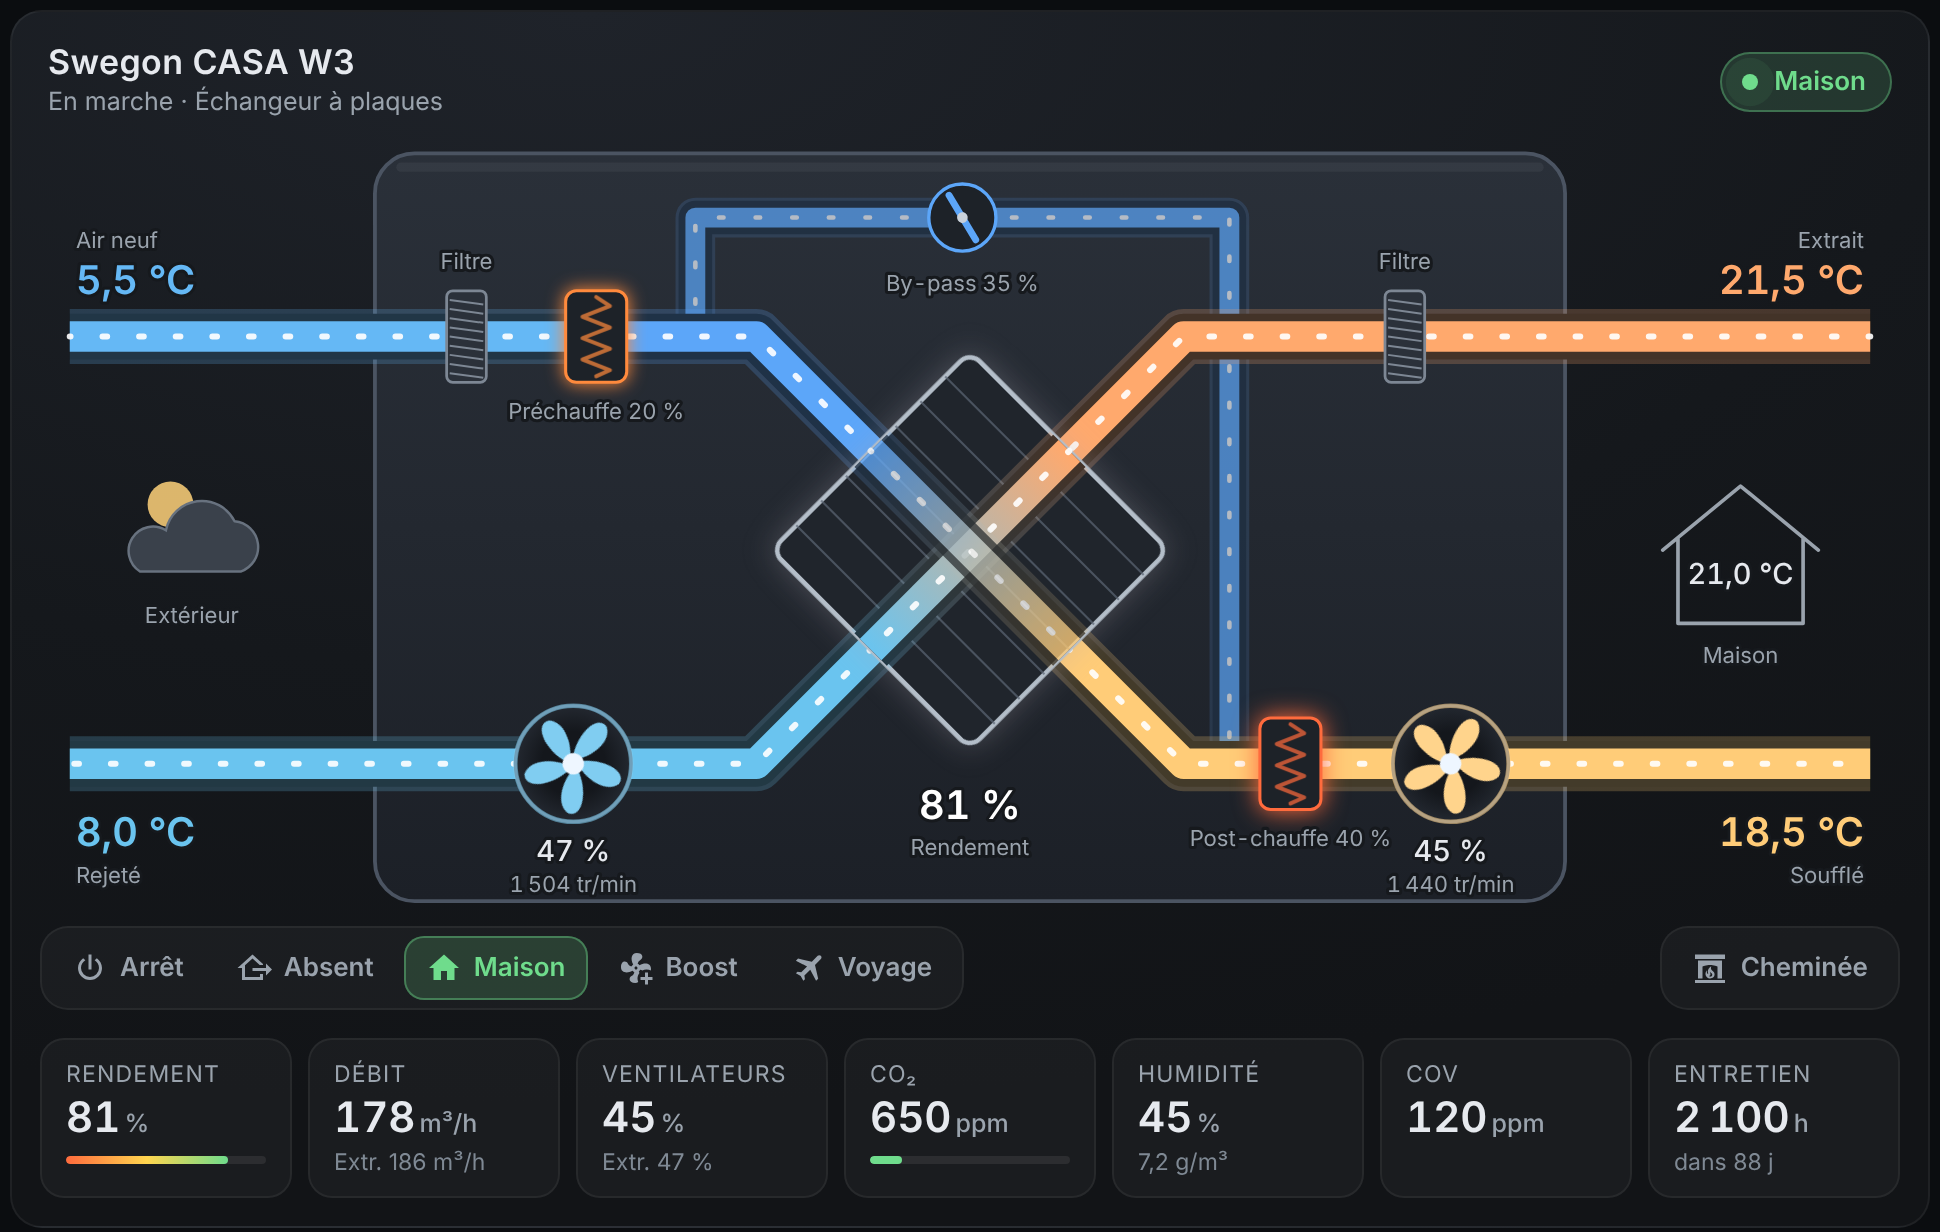
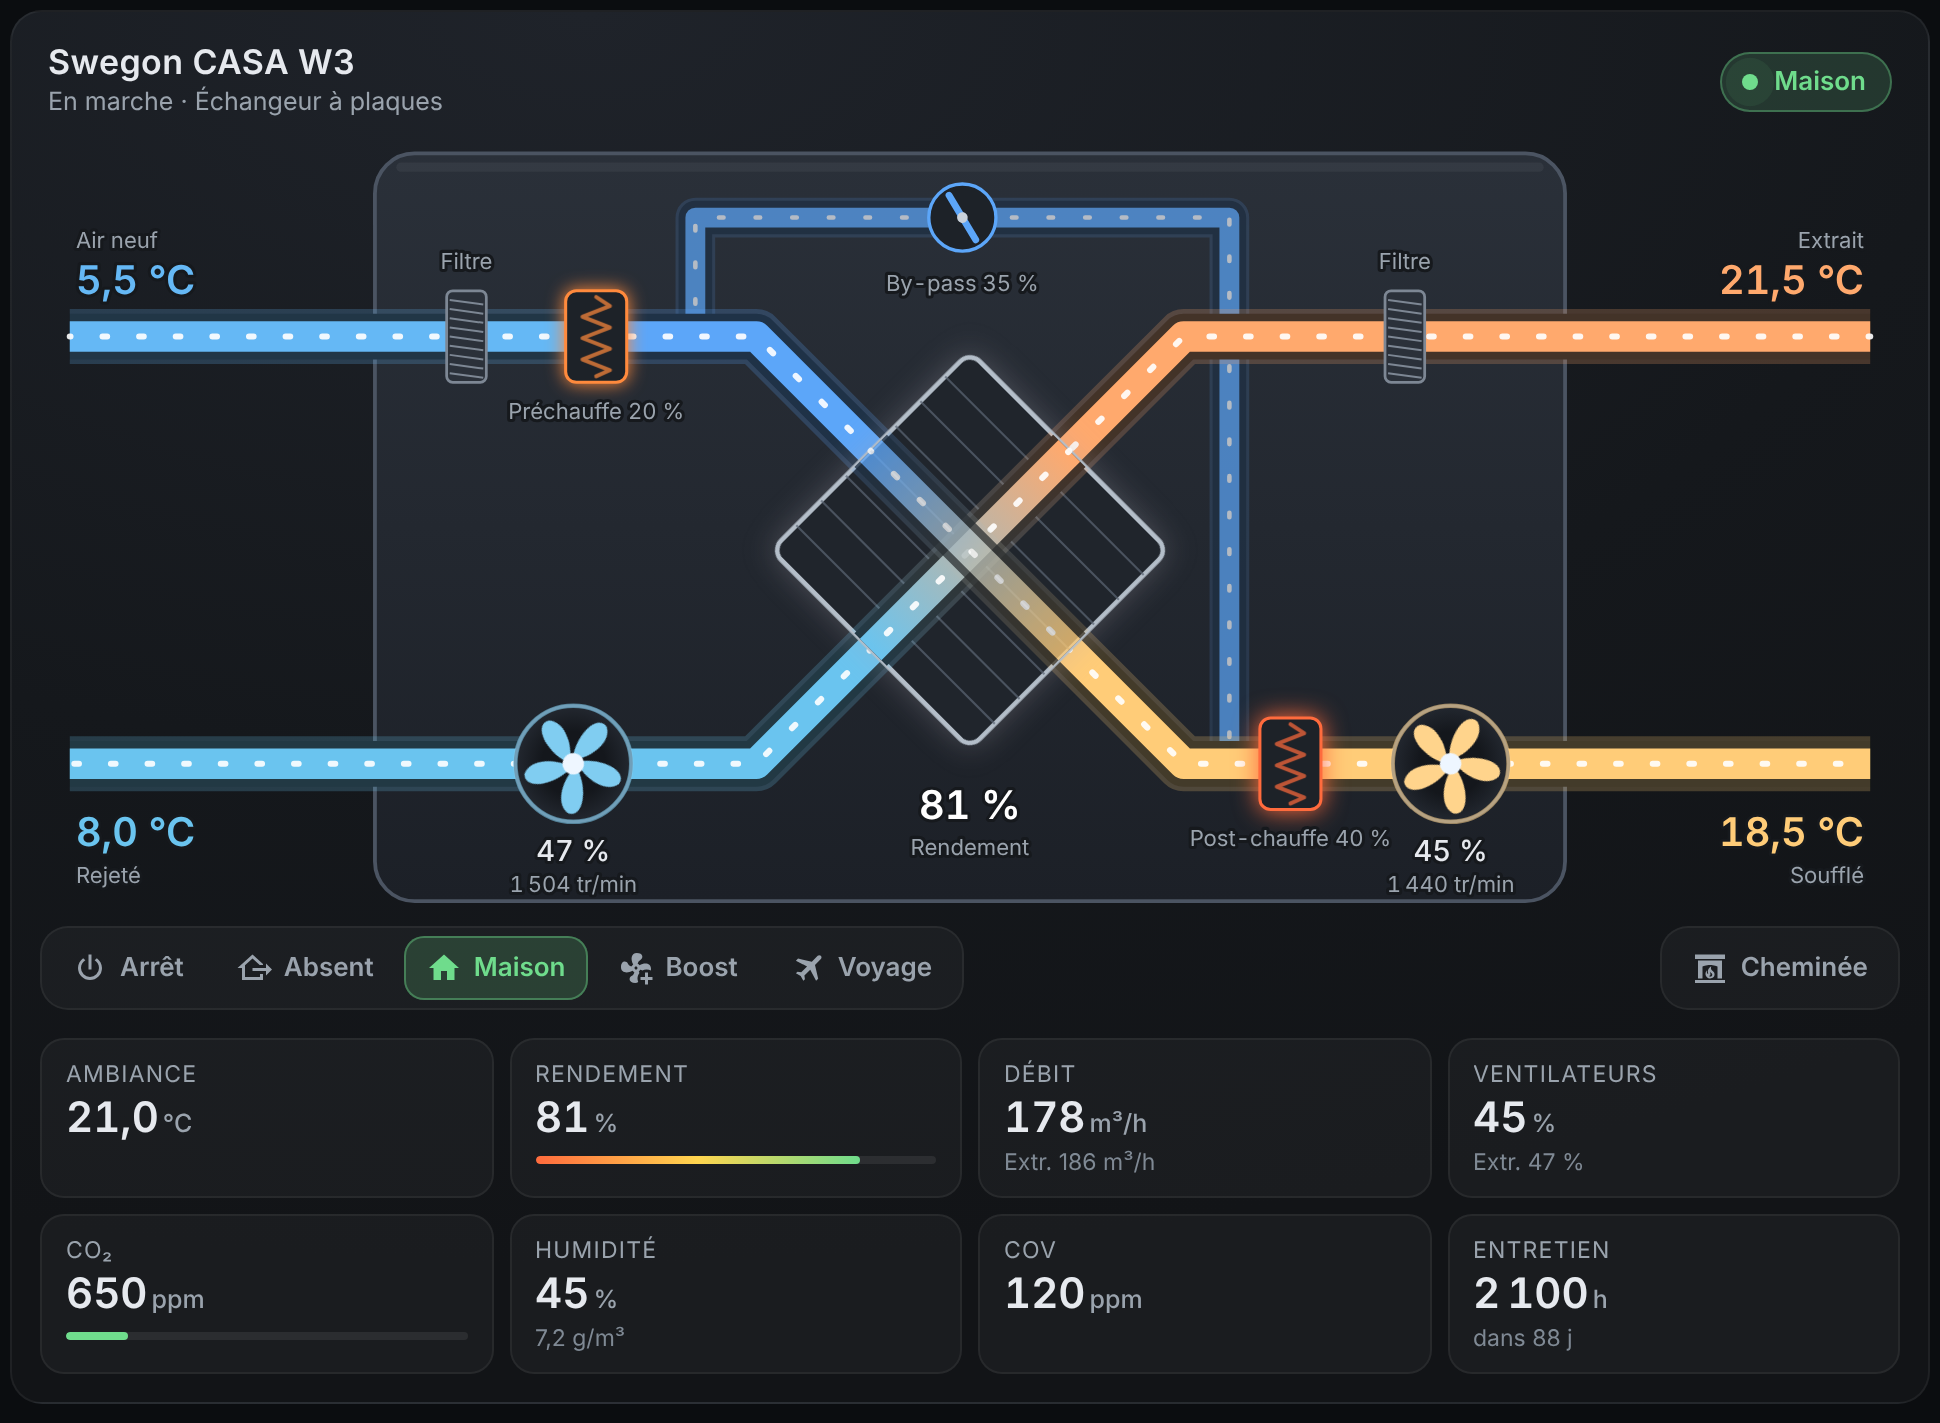
0.2.3: drop the outside and house symbols
Room temperature moves to its own tile; tiles use a four-column grid.

Claude-Session: https://claude.ai/code/session_01EpAdakSgqwUMojDfF9bcbk

diff --git a/custom_components/swegon_casa/frontend/swegon-casa-card.js b/custom_components/swegon_casa/frontend/swegon-casa-card.js
@@ -14,7 +14,7 @@
  */
 
 const DOMAIN = "swegon_casa";
-const CARD_VERSION = "0.2.2";
+const CARD_VERSION = "0.2.3";
 
 /* ------------------------------------------------------------------------------------------ */
 /*  Entities: card key -> [domain, translation keys by preference]                            */
@@ -222,18 +222,6 @@ function buildSVG() {
     ${hxp.defs}
   </defs>
 
-  <!-- ===== Outside / house ===== -->
-  <g id="outside" class="clickable" data-e="fresh">
-    <circle cx="96" cy="300" r="15" class="sun"/>
-    <path class="cloud" d="M76 344 h66 a17 17 0 0 0 -4 -33 a24 24 0 0 0 -45 6 a14 14 0 0 0 -17 27z"/>
-    <text id="l_out" class="sub" x="110" y="378" text-anchor="middle"></text>
-  </g>
-  <g id="house" class="clickable" data-e="room">
-    <path class="housep" d="M1074 330 L1125 288 L1176 330 M1084 322 V378 H1166 V322"/>
-    <text id="t_room" class="lbl" x="1125" y="352" text-anchor="middle"></text>
-    <text id="l_house" class="sub" x="1125" y="404" text-anchor="middle"></text>
-  </g>
-
   <!-- ===== Casing ===== -->
   <rect x="230" y="70" width="780" height="490" rx="26" fill="url(#gCase)" stroke="#4b5462" stroke-width="2.5"/>
   <rect x="244" y="76" width="752" height="6" rx="3" fill="#fff" opacity=".05"/>
@@ -345,12 +333,11 @@ text{paint-order:stroke;stroke:#16191d;stroke-width:4px;stroke-linejoin:round;fo
 /* narrow layout: same drawing, larger text, secondary labels hidden */
 .narrow .lbl{font-size:calc(10.5px * var(--k,2))}.narrow .big{font-size:calc(12px * var(--k,2))}.narrow .sub{font-size:calc(9.5px * var(--k,2))}
 .narrow text{stroke-width:calc(1.6px * var(--k,2))}
-.narrow #l_flt_f,.narrow #l_flt_e,.narrow #t_pre,.narrow #t_post,.narrow #l_eff,.narrow #t_fe,.narrow #t_fs,.narrow #l_out,.narrow #l_house,
-.narrow #outside,.narrow #r_fe,.narrow #r_fs,.narrow #house .housep,.narrow #l_fresh,.narrow #l_exh,.narrow #l_ext,.narrow #l_sup{visibility:hidden}
+.narrow #l_flt_f,.narrow #l_flt_e,.narrow #t_pre,.narrow #t_post,.narrow #l_eff,.narrow #t_fe,.narrow #t_fs,
+.narrow #r_fe,.narrow #r_fs,.narrow #l_fresh,.narrow #l_exh,.narrow #l_ext,.narrow #l_sup{visibility:hidden}
 .narrow #t_fresh{transform:translateY(-14px)}.narrow #t_ext{transform:translateY(-14px)}
 .narrow #t_exh{transform:translateY(30px)}.narrow #t_sup{transform:translateY(30px)}
 .narrow #t_eff{transform:translateY(14px)}.narrow #t_byp{transform:translateY(8px)}
-.narrow #t_room{transform:translate(-4px,-6px)}
 
 /* ducts (same layered pipes as the Vitocal card, air sized) */
 .pipe path{fill:none;stroke-linecap:round;stroke-linejoin:round}
@@ -371,11 +358,6 @@ text{paint-order:stroke;stroke:#16191d;stroke-width:4px;stroke-linejoin:round;fo
 @keyframes flowd{to{stroke-dashoffset:-24}}
 @keyframes flowc{to{stroke-dashoffset:-16}}
 
-
-/* outside / house */
-.sun{fill:#ffd27a;opacity:.85}
-.cloud{fill:#3a414b;stroke:#68727f;stroke-width:1.6}
-.housep{fill:none;stroke:#9aa3ad;stroke-width:2.4;stroke-linejoin:round;stroke-linecap:round}
 
 /* by-pass damper */
 .dhouse{fill:#1d2228;stroke:#68727f;stroke-width:2.2;transition:stroke .6s}
@@ -454,7 +436,7 @@ text{paint-order:stroke;stroke:#16191d;stroke-width:4px;stroke-linejoin:round;fo
 .alert button b{color:#16191d}
 
 /* tiles */
-.tiles{display:grid;grid-template-columns:repeat(auto-fit,minmax(118px,1fr));gap:8px;padding:4px 14px 14px}
+.tiles{display:grid;grid-template-columns:repeat(4,1fr);gap:8px;padding:4px 14px 14px}
 .tile{background:rgba(255,255,255,.035);border:1px solid rgba(255,255,255,.06);border-radius:12px;padding:10px 12px;cursor:pointer;transition:background .2s;min-width:0}
 .tile:hover{background:rgba(255,255,255,.07)}
 .tl{font-size:11.5px;color:#9aa3ad;text-transform:uppercase;letter-spacing:.6px;white-space:nowrap;overflow:hidden;text-overflow:ellipsis}
@@ -527,6 +509,7 @@ class SwegonCasaCard extends HTMLElement {
         </div>
         <div class="alerts" id="alerts"></div>
         <div class="tiles" id="tiles">
+          <div class="tile" data-e="room" id="k_room_w"><div class="tl">${esc(t.room)}</div><div class="tv" id="k_room">—</div><div class="ts" id="k_room_s"></div></div>
           <div class="tile" data-e="efficiency" id="k_eff_w"><div class="tl">${esc(t.efficiency)}</div><div class="tv" id="k_eff">—</div><div class="bar"><i id="k_eff_b"></i></div></div>
           <div class="tile" data-e="supply_flow" id="k_flow_w"><div class="tl">${esc(t.airflow)}</div><div class="tv" id="k_flow">—</div><div class="ts" id="k_flow_s"></div></div>
           <div class="tile" data-e="supply_fan" id="k_fans_w"><div class="tl">${esc(t.fans)}</div><div class="tv" id="k_fans">—</div><div class="ts" id="k_fans_s"></div></div>
@@ -826,10 +809,6 @@ class SwegonCasaCard extends HTMLElement {
     this._txt("l_sup", t.supply); this._txt("t_sup", this._T("supply") || "—");
     this._$("t_fresh").style.fill = cFresh; this._$("t_exh").style.fill = cExh;
     this._$("t_ext").style.fill = cExt; this._$("t_sup").style.fill = cSup;
-    this._txt("l_out", t.outside);
-    this._txt("l_house", t.house);
-    this._txt("t_room", this._T("room"));
-    this._show("house", true);
   }
 
   _exchanger(sOn, eOn, bp, cIn, cOut, cExt, cExh, sSpd, eSpd) {
@@ -870,6 +849,11 @@ class SwegonCasaCard extends HTMLElement {
 
   _updateTiles(t, S) {
     const tile = (id, has) => this._show(`${id}_w`, has);
+
+    const room = this._n("room");
+    tile("k_room", this._has("room"));
+    this._html("k_room", room != null ? `${this._f(room, 1)}<small>°C</small>` : "—");
+    this._txt("k_room_s", "");
 
     tile("k_eff", S.eff != null || this._has("efficiency"));
     this._html("k_eff", S.eff != null ? `${this._f(S.eff, 0)}<small>%</small>` : "—");

diff --git a/custom_components/swegon_casa/const.py b/custom_components/swegon_casa/const.py
@@ -6,7 +6,7 @@ from typing import Final
 
 DOMAIN: Final = "swegon_casa"
 MANUFACTURER: Final = "Swegon"
-VERSION: Final = "0.2.2"  # keep in sync with manifest.json
+VERSION: Final = "0.2.3"  # keep in sync with manifest.json
 
 CONF_KIND: Final = "kind"  # "serial" or "tcp"
 CONF_SERIAL_PORT: Final = "serial_port"

diff --git a/README.md b/README.md
@@ -52,8 +52,8 @@ Ce que montre le schéma :
 
 - **Échangeur à plaques à flux croisés** : l'air neuf (haut gauche → bas droite) et l'air extrait (haut droite → bas gauche) traversent le bloc de plaques et se croisent au centre. Chaque gaine est colorée de sa température d'entrée à sa température de sortie, et l'air s'anime à la vitesse des ventilateurs. Givre et flocons pendant le dégivrage. Les centrales de la série R affichent une roue qui tourne à sa vitesse réelle.
 - **By-pass** : le volet pivote selon l'ouverture en %, le canal de contournement s'allume et les canaux d'air neuf de l'échangeur s'estompent d'autant.
-- **Batteries** de préchauffe et de post-chauffe, qui rougeoient selon leur puissance (bleu en rafraîchissement), **filtres** (orange quand ils sont à remplacer), **ventilateurs** avec commande en % et vitesse, températures des quatre flux et de l'ambiance.
-- **Modes** Arrêt / Absent / Maison / Boost / Voyage et bouton Cheminée, **alertes** avec bouton « Acquitter » pour le filtre et l'entretien, **tuiles** : rendement, débits en m³/h, ventilateurs, CO₂, humidité, COV, heures avant entretien.
+- **Batteries** de préchauffe et de post-chauffe, qui rougeoient selon leur puissance (bleu en rafraîchissement), **filtres** (orange quand ils sont à remplacer), **ventilateurs** avec commande en % et vitesse, températures des quatre flux.
+- **Modes** Arrêt / Absent / Maison / Boost / Voyage et bouton Cheminée, **alertes** avec bouton « Acquitter » pour le filtre et l'entretien, **tuiles** : ambiance, rendement, débits en m³/h, ventilateurs, CO₂, humidité, COV, heures avant entretien.
 
 Un clic sur un élément ouvre son entité. En dessous de 640 px de large, la carte passe en version compacte.
 
